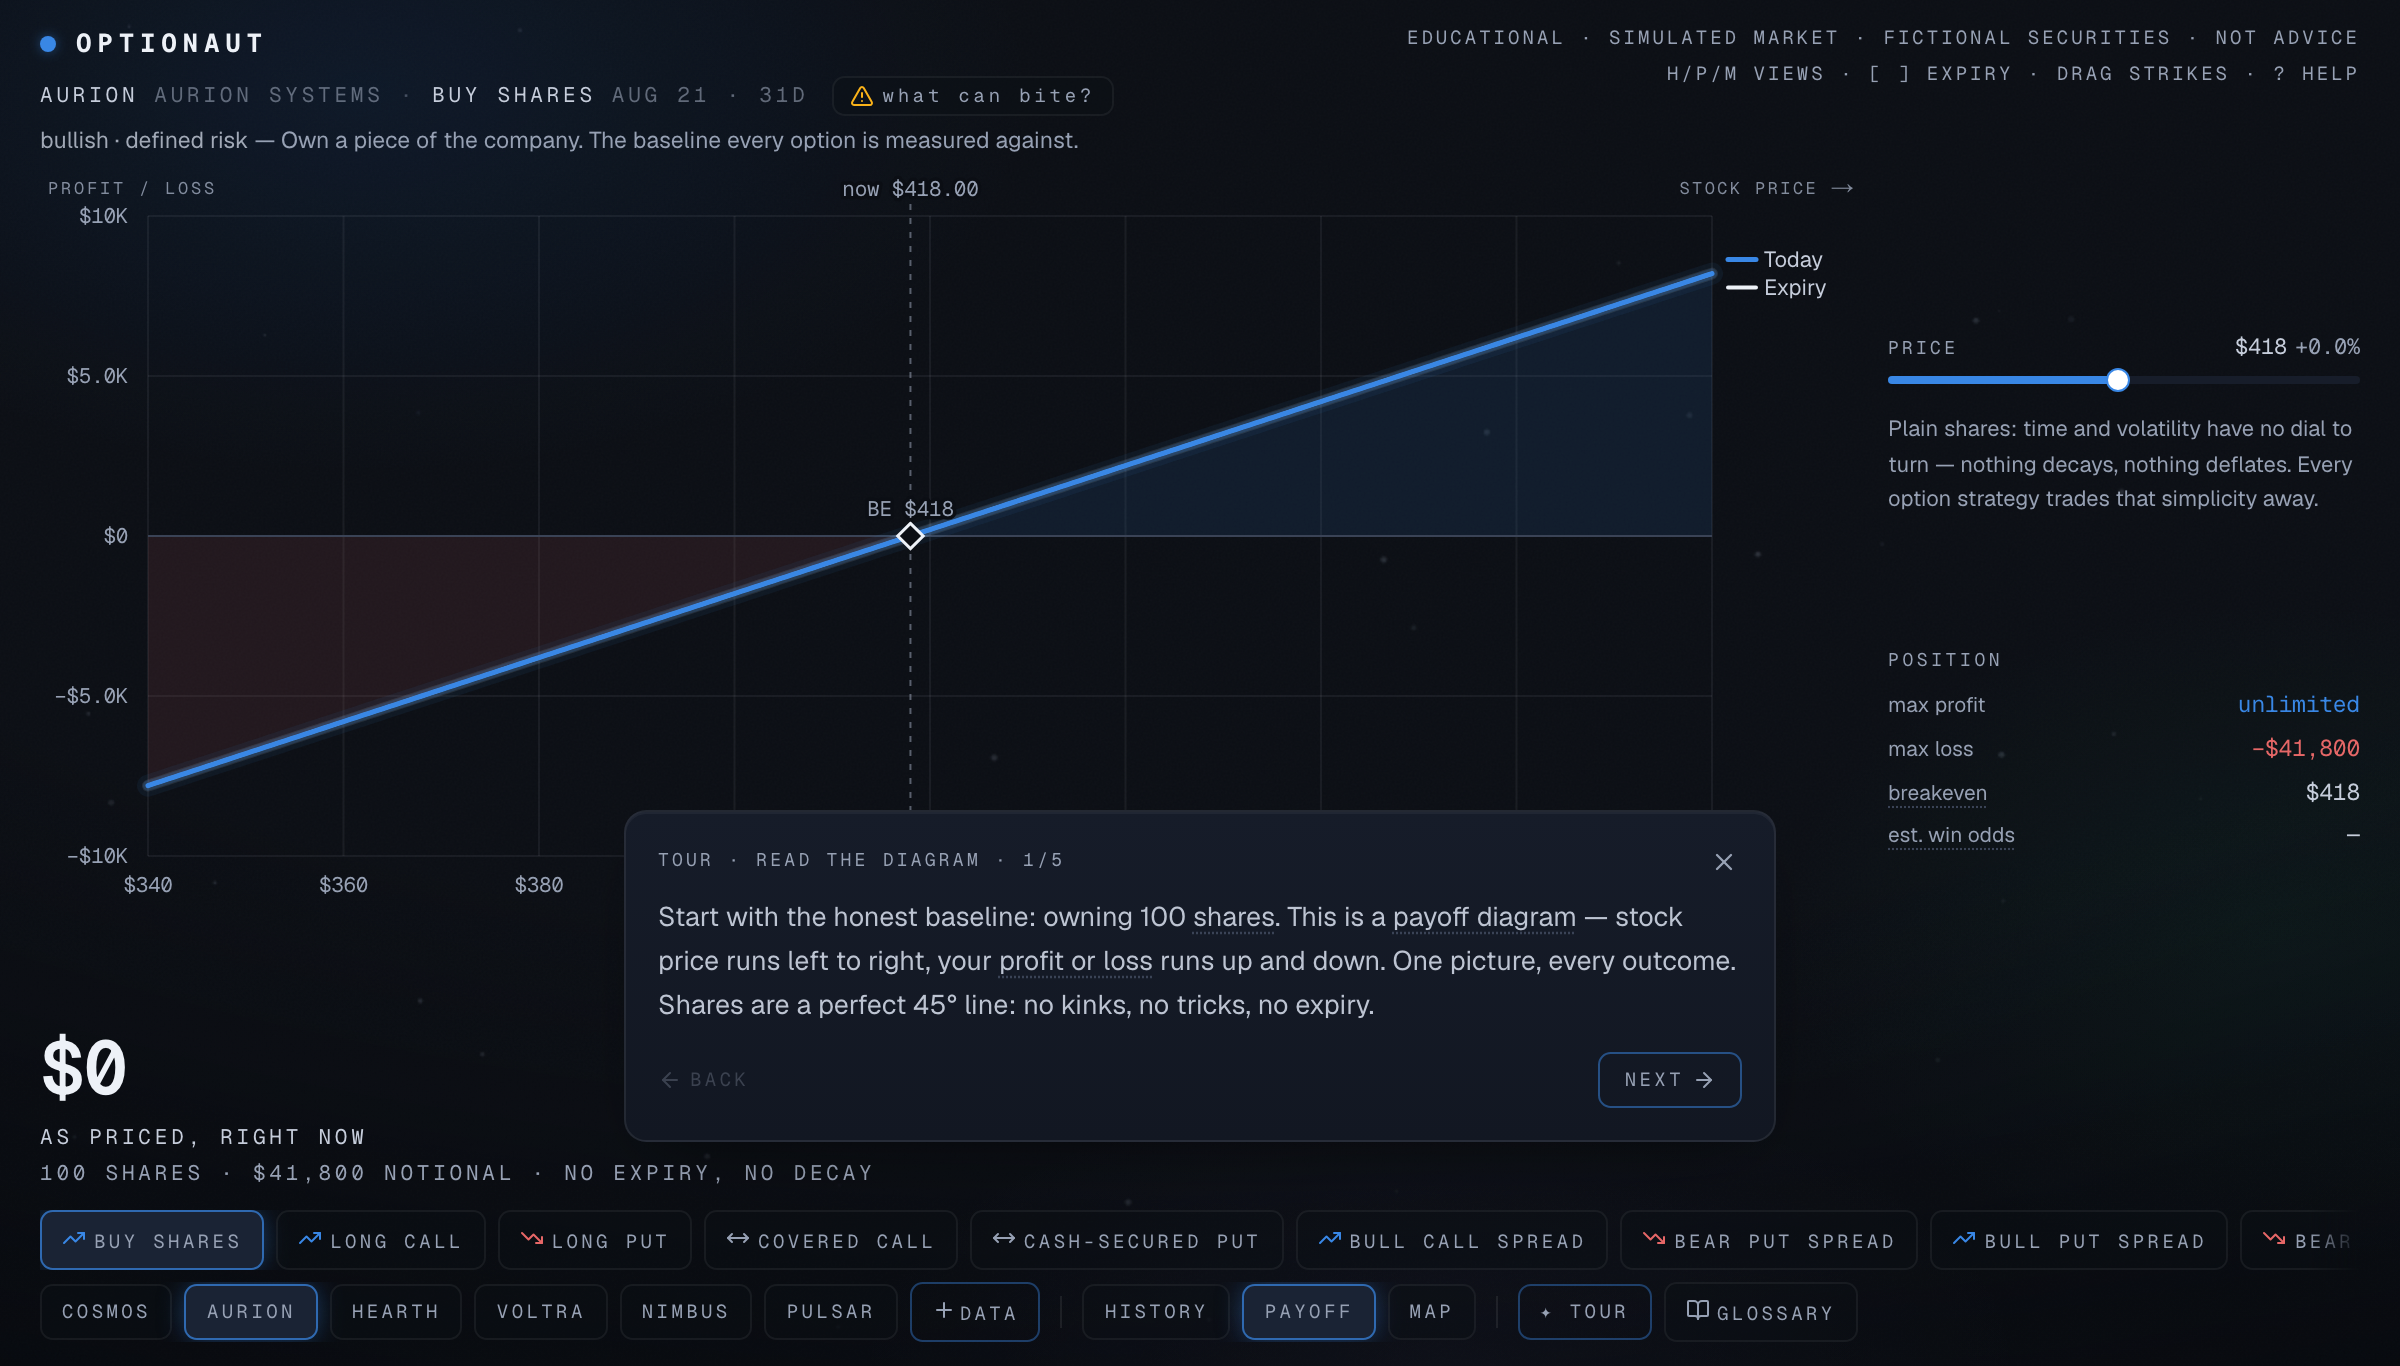
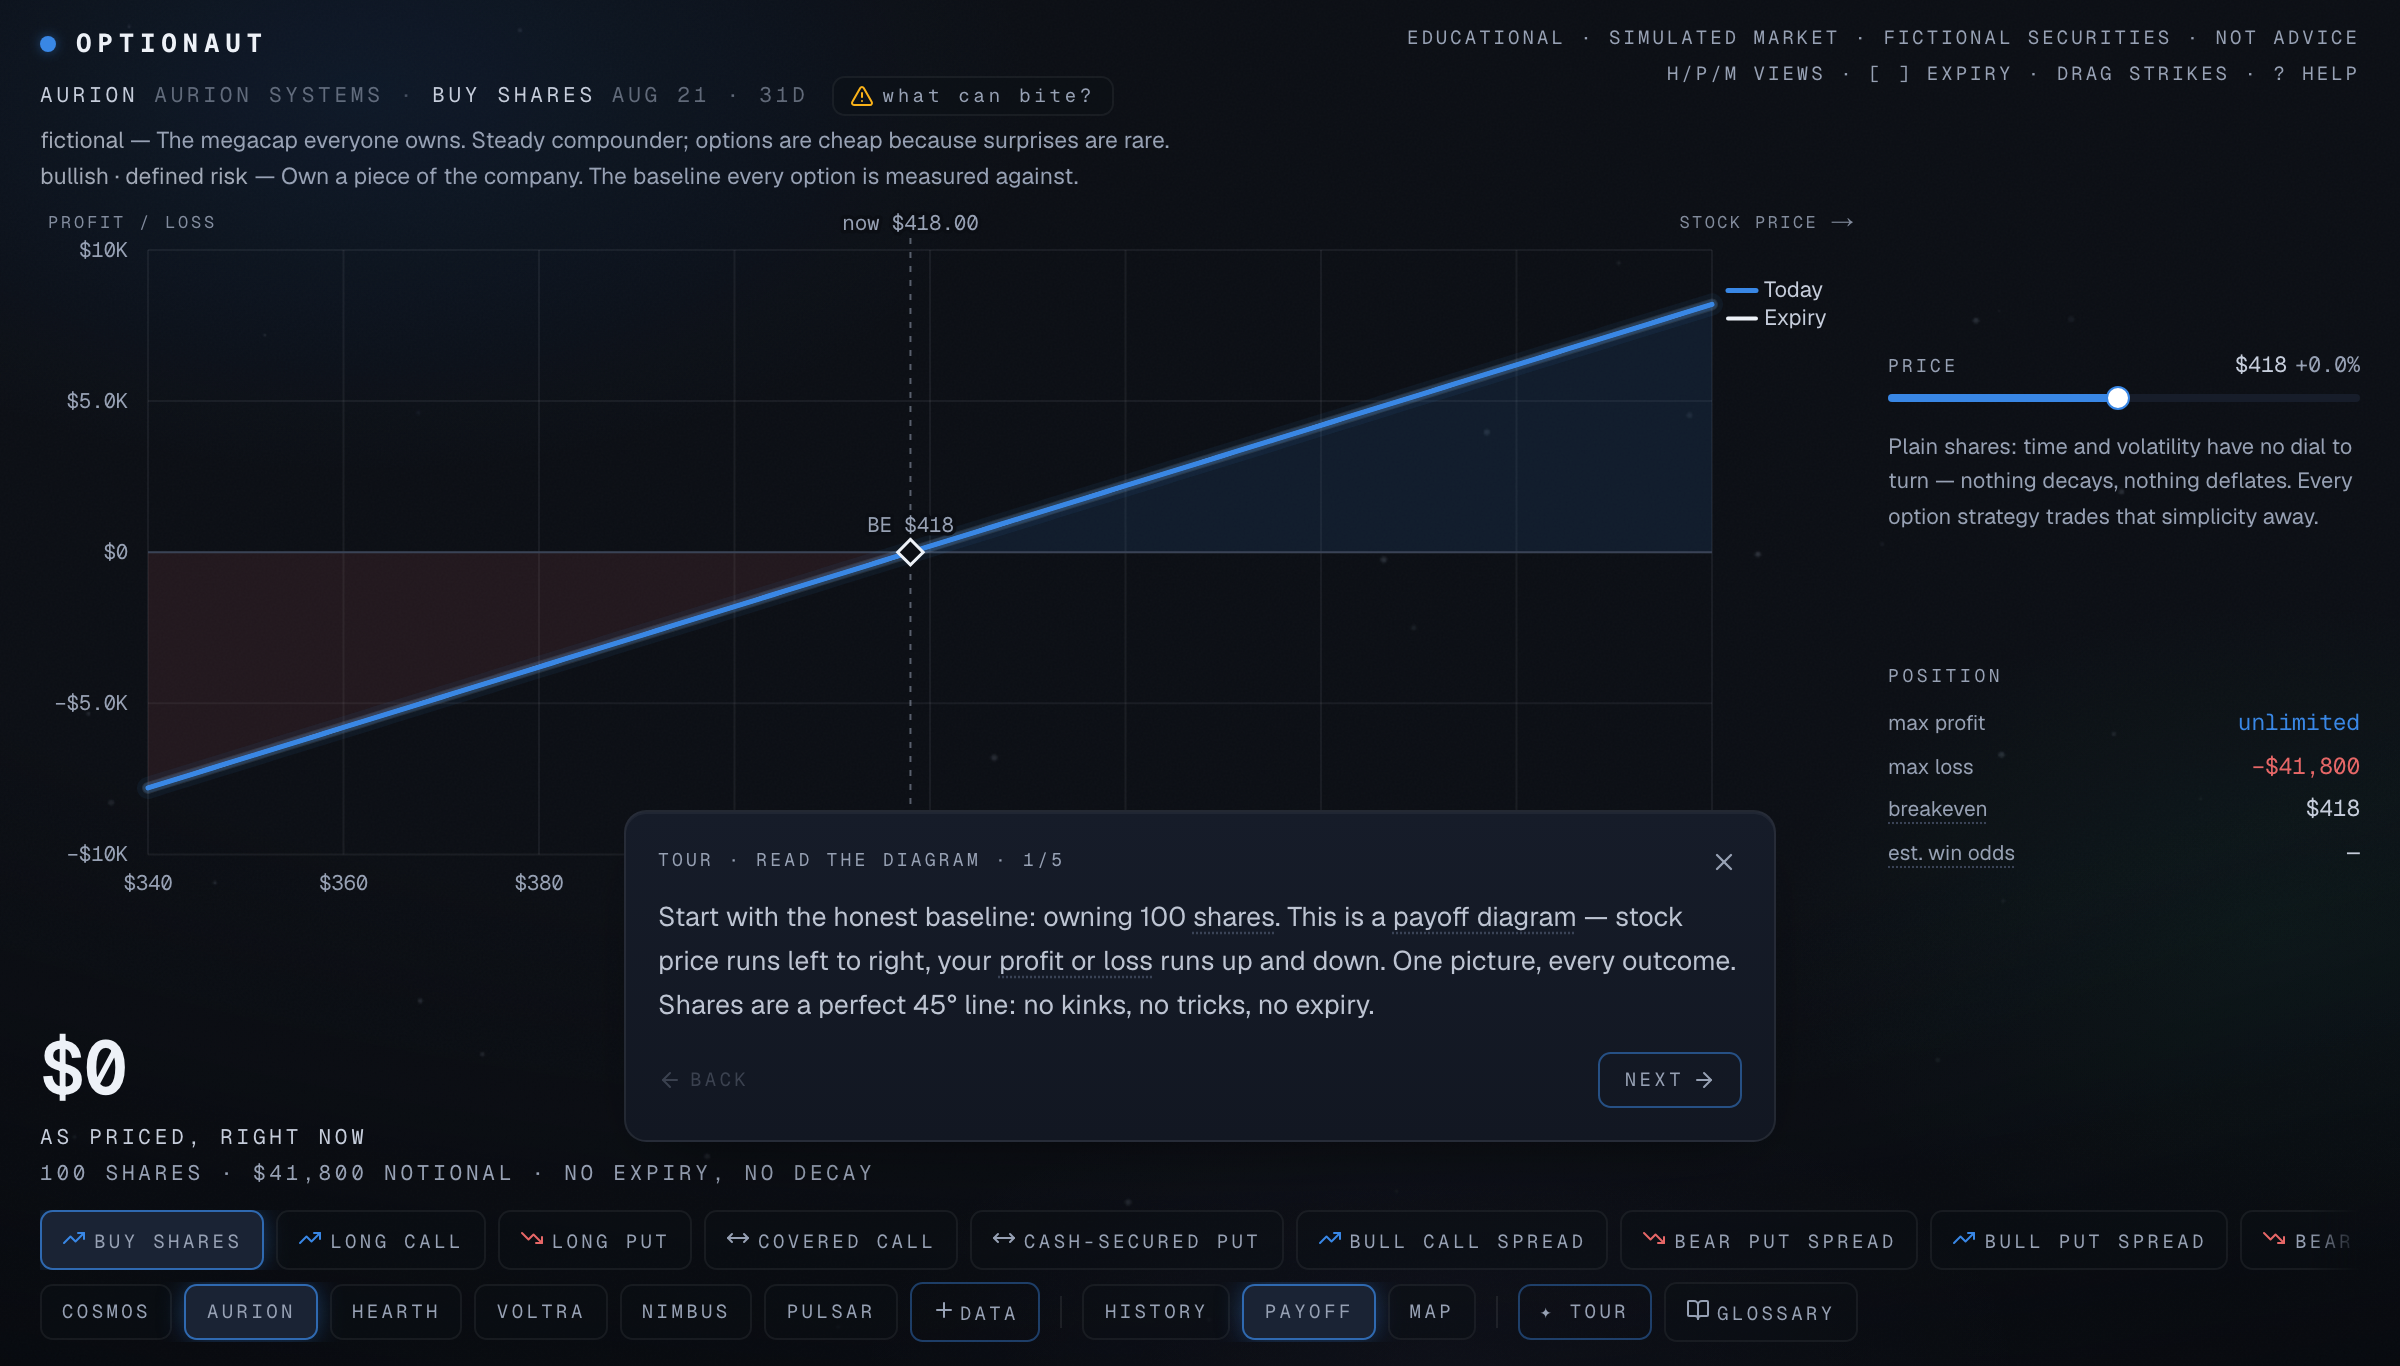
Personalities where you actually look: on screen in every view
The archetype blurb only appeared in the history view and in hover
tooltips — the default landing is the payoff view, so most flights
never saw it (user couldn't find it). The security's one-liner now
sits under the context bar in every view, above the strategy's
why-line: first what you're flying, then what you're doing with it.
Screenshots retaken.

diff --git a/src/components/cockpit/hud/ContextBar.tsx b/src/components/cockpit/hud/ContextBar.tsx
@@ -66,21 +66,8 @@ export function ContextBar({ snapshot }: { snapshot: Snapshot | null }) {
           </>
         )}
       </div>
-      {/* the WHY, always visible — not a hover secret. In history view the
-          same slot introduces the security instead of the strategy. */}
-      {view !== "history" && def && (
-        <p
-          className="mt-1 max-w-xl truncate text-[11.5px] leading-snug text-muted-foreground"
-          title={def.tagline}
-        >
-          <span className="text-secondary-foreground/80">
-            {def.outlook === "bigmove" ? "big move" : def.outlook} · {def.risk} risk
-          </span>
-          {" — "}
-          {def.tagline}
-        </p>
-      )}
-      {view === "history" && snapshot?.blurb && (
+      {/* who this security is — always on screen, never a hover secret */}
+      {snapshot?.blurb && (
         <p
           className="mt-1 max-w-xl truncate text-[11.5px] leading-snug text-muted-foreground"
           title={snapshot.blurb}
@@ -90,6 +77,19 @@ export function ContextBar({ snapshot }: { snapshot: Snapshot | null }) {
           </span>
           {" — "}
           {snapshot.blurb}
+        </p>
+      )}
+      {/* the strategy's WHY, below it in the flying views */}
+      {view !== "history" && def && (
+        <p
+          className="mt-0.5 max-w-xl truncate text-[11.5px] leading-snug text-muted-foreground"
+          title={def.tagline}
+        >
+          <span className="text-secondary-foreground/80">
+            {def.outlook === "bigmove" ? "big move" : def.outlook} · {def.risk} risk
+          </span>
+          {" — "}
+          {def.tagline}
         </p>
       )}
     </div>
